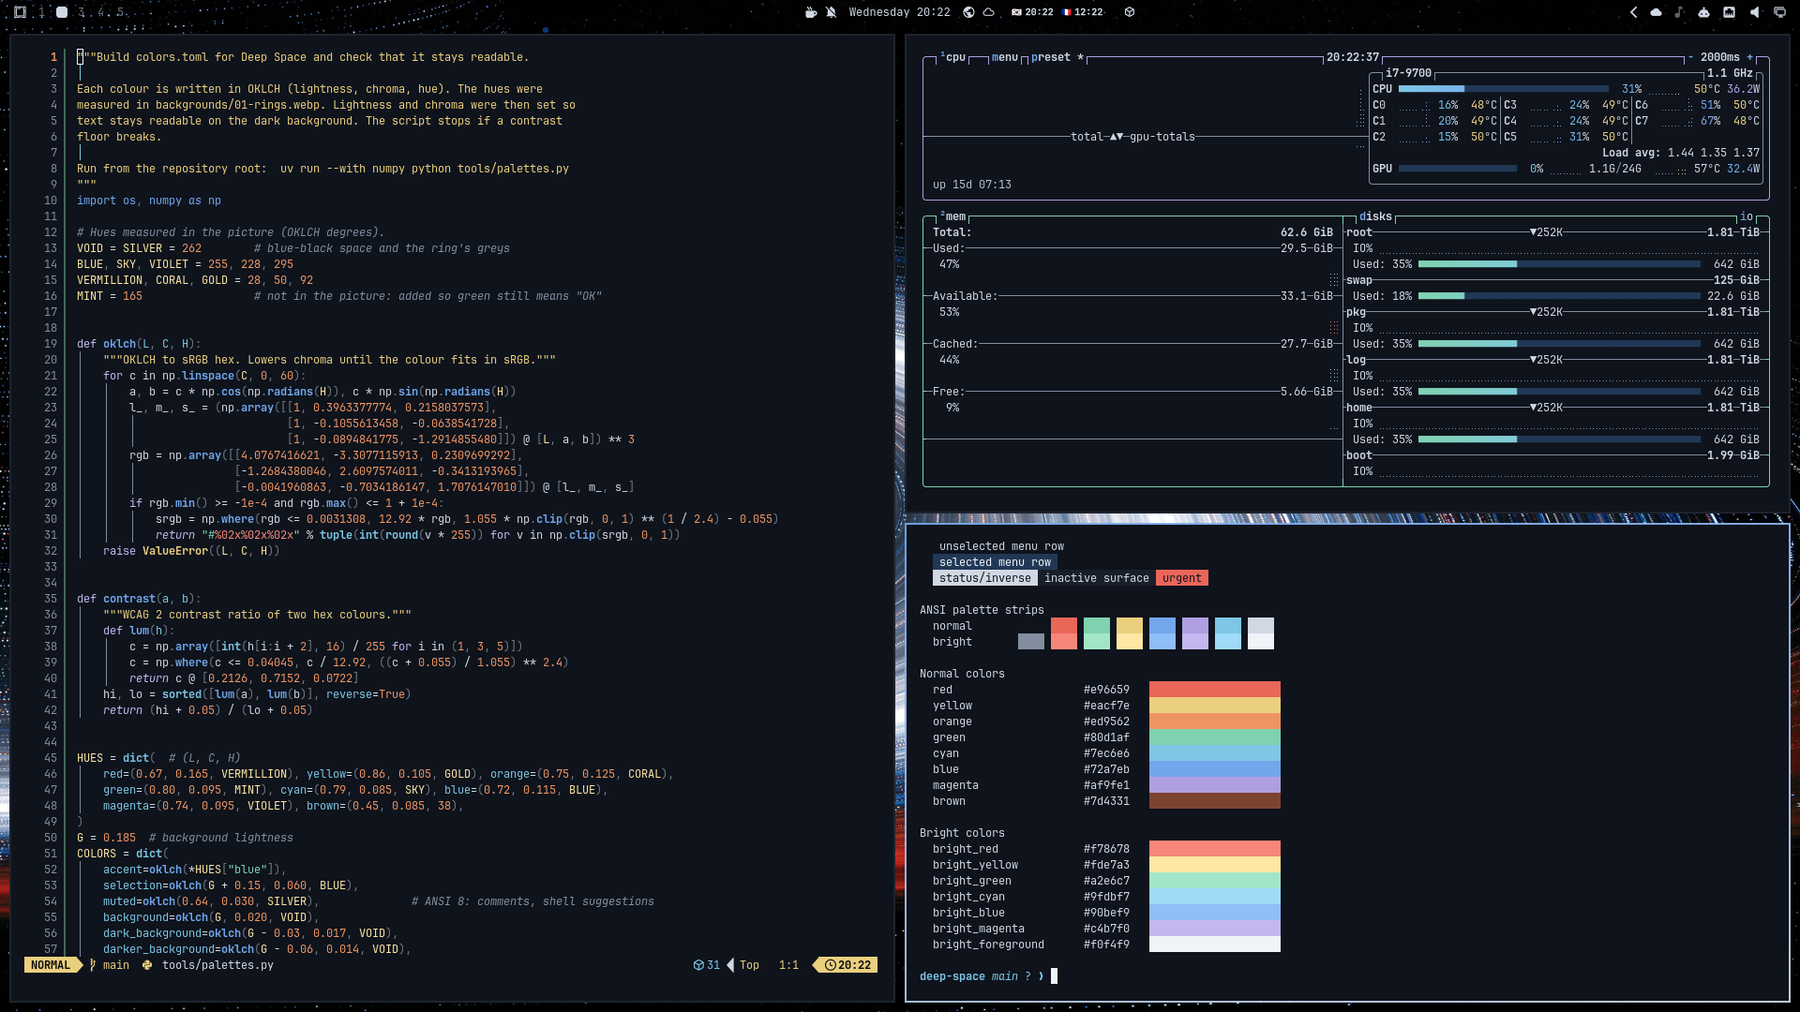
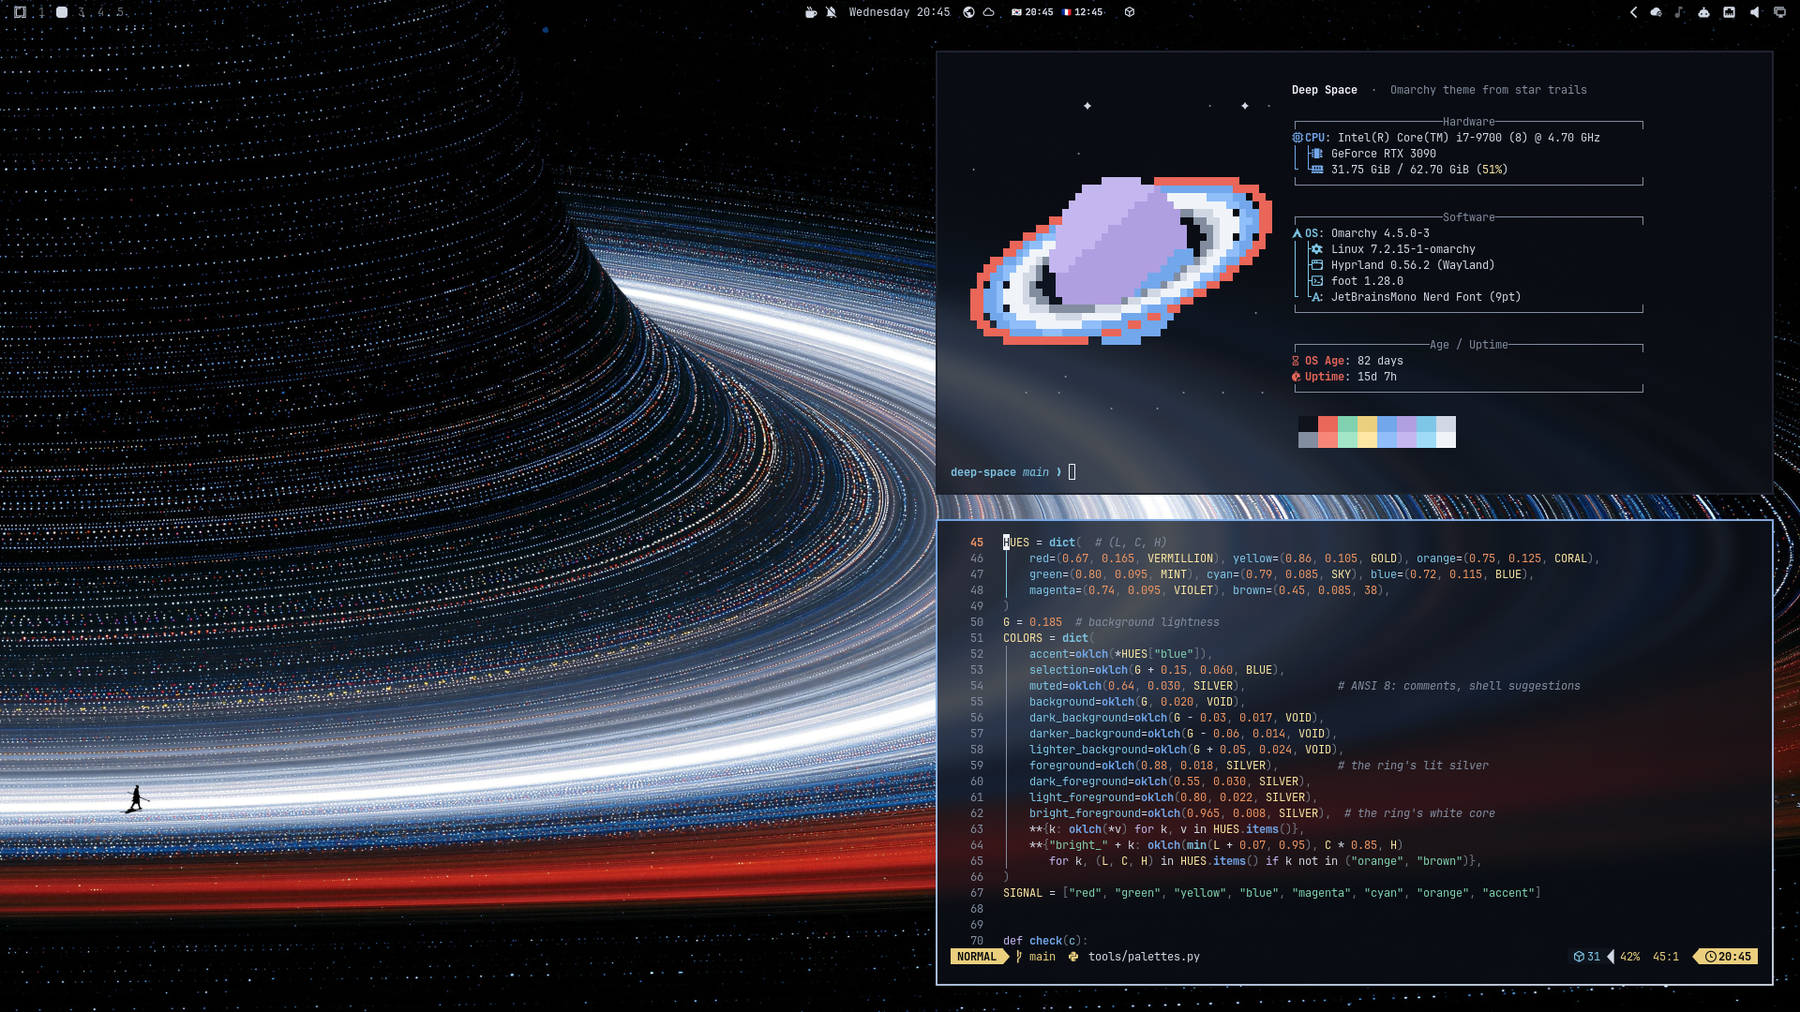
Glassy preview with a Deep Space fastfetch

diff --git a/README.md b/README.md
@@ -12,8 +12,7 @@ follows a small figure walking through rings of light.
 
 ## Wallpapers
 
-Ten pieces by Dogan Ural, stitched back together from the strips he posts on 𝕏.
-Click any one for the full 5120×2560 wallpaper.
+Ten pieces by Dogan Ural. Click any one for the full 5120×2560 wallpaper.
 
 <table>
 <tr><td width="50%" align="center"><a href="backgrounds/01-rings.webp"><img src="thumbnails/01-rings.jpg" alt="White, blue and red star trails curving around a dark cone, a small figure walking on the brightest ring"></a><br><strong>Rings</strong><br><sub>12 Sep 2026</sub></td><td width="50%" align="center"><a href="backgrounds/02-orbit.webp"><img src="thumbnails/02-orbit.jpg" alt="A flat white and red ellipse of light over black space, a small figure on its left edge"></a><br><strong>Orbit</strong><br><sub>29 Oct 2026</sub></td></tr>
@@ -46,4 +45,6 @@ omarchy theme install https://github.com/promaaa/deep-space-theme
 | Muted | `#828d9f` |
 
 Full ANSI palette in [`colors.toml`](colors.toml), built and contrast-checked by
-[`tools/palettes.py`](tools/palettes.py). Icons are `Yaru-blue`.
+[`tools/palettes.py`](tools/palettes.py). Icons are `Yaru-blue`. The preview uses
+Glassy windows and the fastfetch config in
+[`tools/fastfetch.jsonc`](tools/fastfetch.jsonc).
